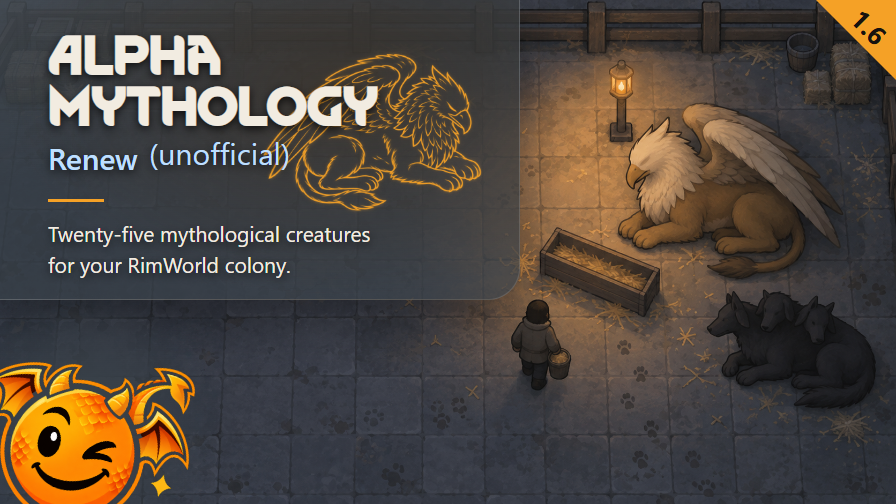
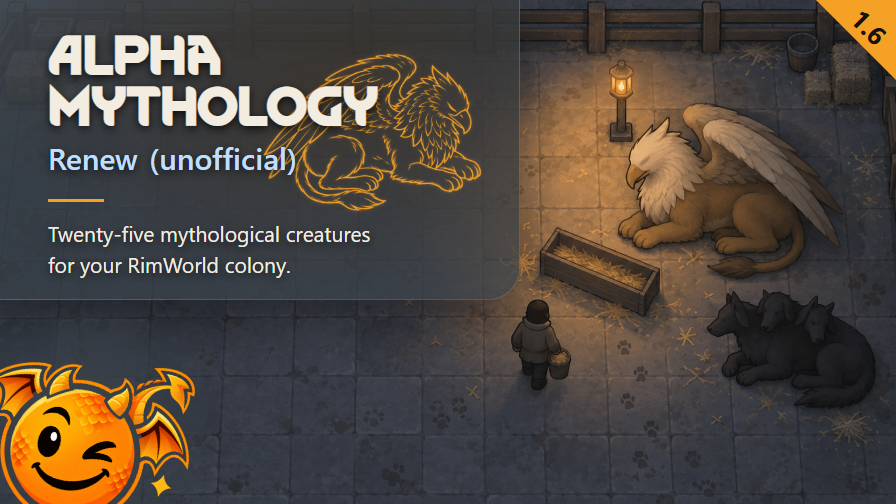
fix(preview): align unofficial tag

Changed region(s): [[0.1562, 0.2679, 0.3438, 0.3571]]

diff --git a/Art/Preview-layout.html b/Art/Preview-layout.html
@@ -17,7 +17,7 @@ body{background:url(Preview.png) center/cover}
 h1{font-size:var(--titleSize,46px);font-weight:600;line-height:1.1;letter-spacing:0}.title-main{font-family:"RimWorldTitle","Segoe UI",sans-serif;color:var(--inkPrimary);display:inline-block;line-height:var(--titleLineHeight,1.1)}.title-part{font-size:calc(var(--titleScale,1) * 1em)}.title-ui{font-family:"Segoe UI",system-ui,sans-serif}.title-secondary{color:var(--inkSecondary)}
 .suffix{font-size:.65em;color:var(--inkSecondary)}
 .suffix:empty,.tag:empty{display:none}.tag{font-size:24px;font-weight:400;line-height:1.1;letter-spacing:.2px;margin-top:8px;color:var(--inkSecondary);font-family:"Segoe UI",system-ui,sans-serif}
-.tag-inline{display:inline;font-size:.65em;margin:0 0 0 .38em;vertical-align:middle}
+.tag-inline{display:inline;font-size:.65em;font-weight:600;margin:0 0 0 .38em;vertical-align:baseline}
 .rule{width:58px;height:3px;background:var(--accent);margin:20px 0 16px}
 p{font-family:"Segoe UI",system-ui,sans-serif;font-size:21px;font-weight:400;line-height:var(--copyLineHeight,1.45);max-width:350px;letter-spacing:0;color:var(--inkPrimary)}
 .echo{position:absolute;z-index:1;background:var(--echoColor,var(--inkSecondary));opacity:var(--echoOpacity,.16);width:var(--echoWidth,180px);height:var(--echoHeight,180px);left:var(--echoLeft,250px);top:var(--echoTop,40px);mask-image:var(--echoMask);mask-size:contain;mask-position:center;mask-repeat:no-repeat;mask-mode:var(--echoMaskMode,alpha);transform:scaleX(var(--echoScaleX,1));pointer-events:none}
